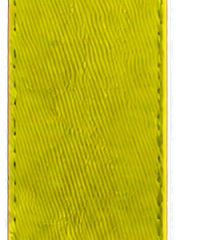
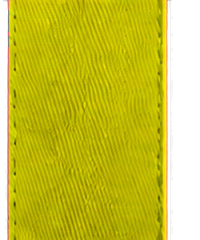
Blend extended badge lanyard seamlessly

diff --git a/src/components/Hero/Hero.css b/src/components/Hero/Hero.css
@@ -4,7 +4,7 @@
 .hero-object{position:absolute;will-change:transform}
 .hero-object picture{display:block;width:100%;height:100%}.hero-object img{display:block;width:100%;height:100%;object-fit:contain}
 .hero-object--badge{z-index:5;width:clamp(240px,22.5vw,390px);height:min(83svh,760px);left:49.3%;top:-1.7%;transform:translateX(-50%)}
-.hero-object--badge::before{content:"";position:absolute;z-index:0;left:41%;top:-32svh;width:18%;height:34svh;background:url('../../../public/assets-optimized/hero/badge-lanyard.png') center top/100% auto repeat-y}
+.hero-object--badge::before{content:"";position:absolute;z-index:0;left:41%;top:-32svh;width:18%;height:38svh;background:url('../../../public/assets-optimized/hero/badge-lanyard.png') center top/100% auto repeat-y}
 .hero-object--badge picture{position:relative;z-index:1}
 .hero-object--lightning{width:clamp(310px,30.5vw,586px);height:53svh;left:0;top:-12.7%}
 .hero-object--portfolio{width:52.6vw;height:59.5svh;left:51.5%;top:-9.5%}
@@ -17,7 +17,7 @@
   .hero{height:116svh;margin-left:0;padding-top:56px}
   .hero__stage{position:sticky;top:56px;height:calc(100svh - 56px)}
   .hero-object--badge{width:52vw;height:62svh;left:50%;top:4%}
-  .hero-object--badge::before{left:41%;top:-48svh;width:18%;height:50svh}
+  .hero-object--badge::before{left:41%;top:-48svh;width:18%;height:54svh}
   .hero-object--lightning{width:48vw;height:35svh;left:-14%;top:-2%}
   .hero-object--portfolio{width:58vw;height:36svh;left:57%;top:0}
   .hero-object--lime-left{width:44vw;height:38svh;left:-18%;top:50%}
